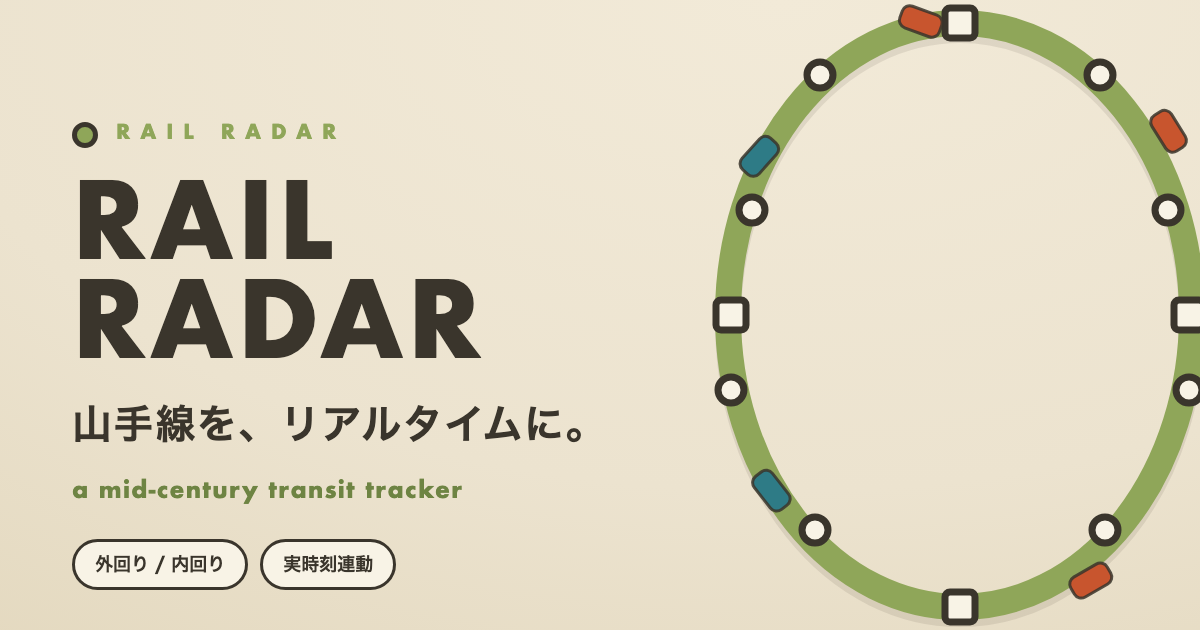
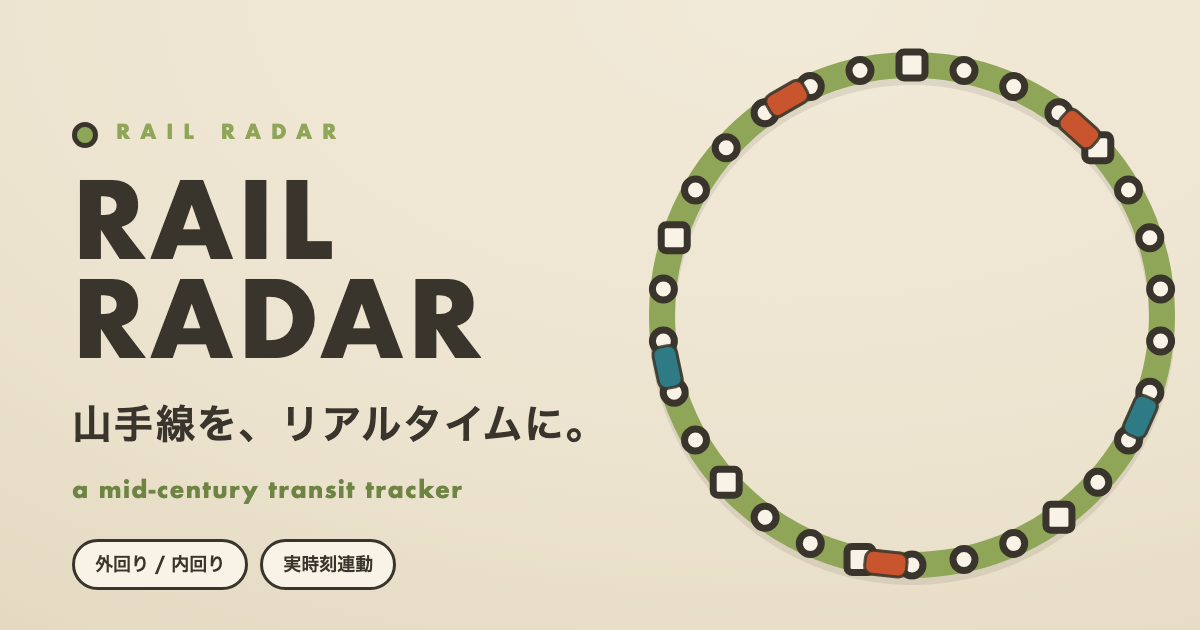
Render Yamanote as a clean circle instead of geographic shape
- Stations evenly spaced on a circle (Tokyo at top, clockwise)
- Square viewBox; everything (line, markers, labels, trains) derives from new coords
- Regenerate og.png to match (circle loop)

Changed region(s): [[0.5242, 0.0, 1.0, 0.9952]]

diff --git a/og.html b/og.html
@@ -14,33 +14,9 @@
   .sub{font-size:23px;font-weight:700;color:#6E8443;margin-top:20px;letter-spacing:.06em;}
   .tags{margin-top:34px;display:flex;gap:12px;}
   .tag{font-size:18px;font-weight:700;border:3px solid var(--ink);border-radius:30px;padding:9px 20px;background:var(--paper);}
-  svg{position:absolute;right:-40px;top:-30px;}
+  #loop{position:absolute;right:18px;top:0;}
 </style></head><body>
-  <svg width="640" height="690" viewBox="0 0 640 690">
-    <!-- loop -->
-    <ellipse cx="360" cy="345" rx="232" ry="292" fill="none" stroke="rgba(58,53,44,.10)" stroke-width="26" transform="translate(0,7)"/>
-    <ellipse cx="360" cy="345" rx="232" ry="292" fill="none" stroke="#8FA659" stroke-width="26"/>
-    <!-- stations -->
-    <g fill="#F8F3E6" stroke="#3A352C" stroke-width="7">
-      <circle cx="360" cy="53" r="13"/><circle cx="500" cy="105" r="13"/><circle cx="568" cy="240" r="13"/>
-      <circle cx="589" cy="420" r="13"/><circle cx="505" cy="560" r="13"/><circle cx="360" cy="637" r="13"/>
-      <circle cx="215" cy="560" r="13"/><circle cx="131" cy="420" r="13"/><circle cx="152" cy="240" r="13"/>
-      <circle cx="220" cy="105" r="13"/>
-    </g>
-    <!-- hubs (squares) -->
-    <g fill="#F8F3E6" stroke="#3A352C" stroke-width="7">
-      <rect x="345" y="38" width="30" height="30" rx="5"/><rect x="574" y="330" width="30" height="30" rx="5"/>
-      <rect x="345" y="622" width="30" height="30" rx="5"/><rect x="116" y="330" width="30" height="30" rx="5"/>
-    </g>
-    <!-- trains -->
-    <g stroke="rgba(58,53,44,.85)" stroke-width="3">
-      <rect x="548" y="150" width="42" height="23" rx="8" fill="#C8552E" transform="rotate(58 569 161)"/>
-      <rect x="470" y="600" width="42" height="23" rx="8" fill="#C8552E" transform="rotate(150 491 611)"/>
-      <rect x="150" y="510" width="42" height="23" rx="8" fill="#2E7B86" transform="rotate(232 171 521)"/>
-      <rect x="138" y="175" width="42" height="23" rx="8" fill="#2E7B86" transform="rotate(312 159 186)"/>
-      <rect x="300" y="40" width="42" height="23" rx="8" fill="#C8552E" transform="rotate(20 321 51)"/>
-    </g>
-  </svg>
+  <svg id="loop" width="600" height="630" viewBox="0 0 600 630"></svg>
   <div class="left">
     <div><span class="knob"></span><span class="kick">Rail&nbsp;Radar</span></div>
     <h1>Rail<br>Radar</h1>
@@ -48,4 +24,23 @@
     <div class="sub">a mid-century transit tracker</div>
     <div class="tags"><span class="tag">外回り / 内回り</span><span class="tag">実時刻連動</span></div>
   </div>
+<script>
+  const cx=330, cy=315, R=250, n=30;
+  const hubs=new Set([0,4,12,16,19,24]);   // 東京/上野/池袋/新宿/渋谷/品川
+  let dots='', hubsvg='', trains='';
+  for(let i=0;i<n;i++){
+    const a=-Math.PI/2+i/n*2*Math.PI, x=cx+R*Math.cos(a), y=cy+R*Math.sin(a);
+    if(hubs.has(i)) hubsvg+=`<rect x="${x-13}" y="${y-13}" width="26" height="26" rx="5"/>`;
+    else dots+=`<circle cx="${x.toFixed(1)}" cy="${y.toFixed(1)}" r="11"/>`;
+  }
+  [{i:3,c:'#C8552E'},{i:9,c:'#2E7B86'},{i:15,c:'#C8552E'},{i:21,c:'#2E7B86'},{i:27,c:'#C8552E'}].forEach(t=>{
+    const a=-Math.PI/2+(t.i+0.5)/n*2*Math.PI, x=cx+R*Math.cos(a), y=cy+R*Math.sin(a), deg=a*180/Math.PI+90;
+    trains+=`<rect x="${(x-21).toFixed(1)}" y="${(y-12).toFixed(1)}" width="42" height="24" rx="8" fill="${t.c}" transform="rotate(${deg.toFixed(1)} ${x.toFixed(1)} ${y.toFixed(1)})"/>`;
+  });
+  document.getElementById('loop').innerHTML=
+    `<circle cx="${cx}" cy="${cy+7}" r="${R}" fill="none" stroke="rgba(58,53,44,.10)" stroke-width="26"/>`+
+    `<circle cx="${cx}" cy="${cy}" r="${R}" fill="none" stroke="#8FA659" stroke-width="26"/>`+
+    `<g fill="#F8F3E6" stroke="#3A352C" stroke-width="7">${dots}${hubsvg}</g>`+
+    `<g stroke="rgba(58,53,44,.85)" stroke-width="3">${trains}</g>`;
+</script>
 </body></html>

diff --git a/public/index.html b/public/index.html
@@ -241,18 +241,16 @@ const STATIONS=[
 ];
 const idMap={}; STATIONS.forEach((s,i)=>idMap[s.id]=i);
 
-// ---- 投影 ----
-const VB={w:1100,h:780,padX:150,padY:90};
-const lat0=35.69*Math.PI/180;
-(function fit(){
- STATIONS.forEach(s=>{s.px=s.lon*Math.cos(lat0);s.py=-s.lat;});
- let mnx=1e9,mxx=-1e9,mny=1e9,mxy=-1e9;
- STATIONS.forEach(s=>{mnx=Math.min(mnx,s.px);mxx=Math.max(mxx,s.px);mny=Math.min(mny,s.py);mxy=Math.max(mxy,s.py);});
- const sc=Math.min((VB.w-2*VB.padX)/(mxx-mnx),(VB.h-2*VB.padY)/(mxy-mny));
- const ox=(VB.w-(mxx-mnx)*sc)/2, oy=(VB.h-(mxy-mny)*sc)/2;
- STATIONS.forEach(s=>{s.x=(s.px-mnx)*sc+ox;s.y=(s.py-mny)*sc+oy;});
+// ---- レイアウト：山手線は実形より「綺麗な円」で（駅を円周上に等間隔配置） ----
+const VB={w:900,h:880};
+const CX=VB.w/2, CY=VB.h/2;
+const R=Math.min(VB.w,VB.h)/2-140;          // 駅名ラベル用の余白
+(function layout(){
+ STATIONS.forEach((s,i)=>{
+   const a=-Math.PI/2 + i/n_*2*Math.PI;     // 東京(index0)を頂点に、時計回り
+   s.x=CX+R*Math.cos(a); s.y=CY+R*Math.sin(a);
+ });
 })();
-const CX=STATIONS.reduce((a,s)=>a+s.x,0)/n_, CY=STATIONS.reduce((a,s)=>a+s.y,0)/n_;
 
 // 周長と区間所要の見積り
 let PERIM=0; for(let i=0;i<n_;i++){const a=STATIONS[i],b=STATIONS[(i+1)%n_];PERIM+=Math.hypot(a.x-b.x,a.y-b.y);}